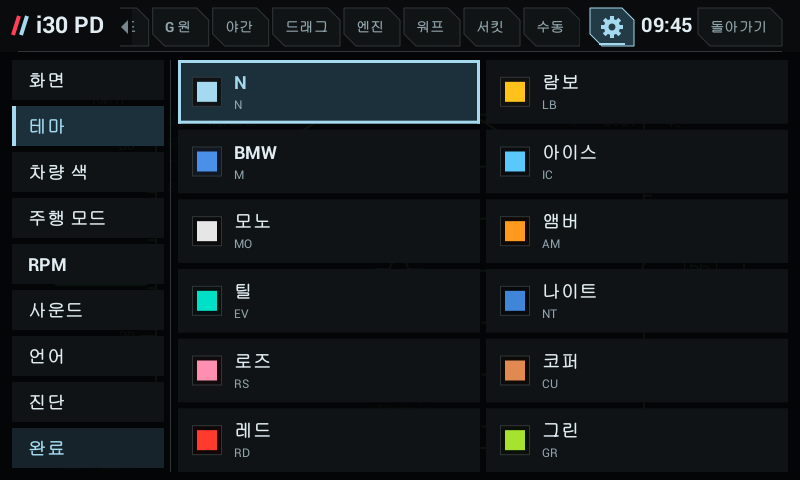
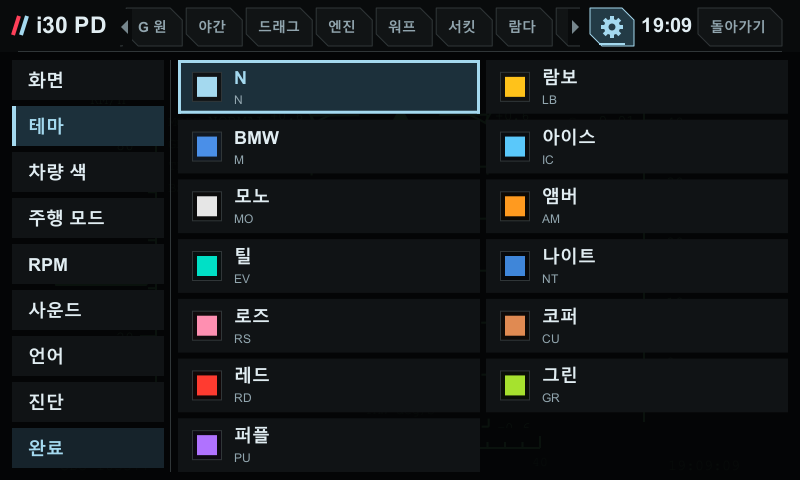
Theme: 퍼플 (PU), a violet accent like the cabin's ambient light, magenta for the red decoration; warnings stay red

diff --git a/shared/src/com/veloster/vehicle/Theme.java b/shared/src/com/veloster/vehicle/Theme.java
@@ -8,7 +8,7 @@ import java.util.Arrays;
  * remap table. Semantic green / amber (ok / caution) are never remapped. No Android imports: host-tested.
  */
 public final class Theme {
-    public static final String[] IDS={"n","lambo","bmw","ice","mono","amber","teal","night","rose","copper","red","green"};
+    public static final String[] IDS={"n","lambo","bmw","ice","mono","amber","teal","night","rose","copper","red","green","purple"};
     public static final int SHAPE_CUT=0,SHAPE_HEX=1,SHAPE_ROUND=2;
 
     // N palette literals grouped by role (RGB only; alpha is kept from the caller).
@@ -63,6 +63,8 @@ public final class Theme {
         // shared ok-green and the ECO accent.
         new Theme("red","RD",SHAPE_CUT,2,false,true,0xffffd21f,0xffffffff,new int[]{0x000000,0x080303,0x110707,0x3e1a1a,0x261111,0xfff1ee,0xaa8b86,0xff3b30,0x3d0d0a,0xff8a1f}),
         new Theme("green","GR",SHAPE_CUT,1,false,false,0xffff3b30,0xff000000,new int[]{0x000000,0x040703,0x0a1007,0x27391a,0x172412,0xf1fbe8,0x8fa384,0xa6e22e,0x22320b,0xd9e84a}),
+        // Purple: a violet accent like the cabin's ambient light, magenta for the red decoration; warnings stay red.
+        new Theme("purple","PU",SHAPE_CUT,1,false,false,0xffff3b30,0xff000000,new int[]{0x000000,0x060409,0x0d0912,0x2e2340,0x1c1528,0xf4eeff,0x968aa8,0xb072ff,0x26143f,0xe04fd8}),
     };
     private static volatile Theme current=ALL[0];
     /** Drive-mode accent (option): ECO green, SPORT red-orange over any theme's accent; 0 = the theme's own. */

diff --git a/tests/ThemeTest.java b/tests/ThemeTest.java
@@ -27,7 +27,7 @@ public final class ThemeTest {
         Theme.select("n");check(Theme.current().shape==Theme.SHAPE_CUT&&!Theme.current().mStripe,"N keeps today's cut corner");
         // Red and green: true black; red warns in yellow with the ring (its accent is red), green's lime stays apart from
         // the shared semantic green and the ECO accent.
-        check(Theme.next("copper").equals("red")&&Theme.next("red").equals("green")&&Theme.next("green").equals("n"),"red and green come after copper");
+        check(Theme.next("copper").equals("red")&&Theme.next("red").equals("green")&&Theme.next("green").equals("purple")&&Theme.next("purple").equals("n"),"red, green and purple come after copper");
         Theme.select("red");Theme red=Theme.current();
         check(red.label.equals("RD")&&red.map(0xff040506)==0xff000000&&red.dangerRing,"red: label, true black, danger ring");
         check(((red.danger>>16)&0xff)>0xe0&&((red.danger>>8)&0xff)>0xb0&&(red.accent&0xffffff)!=(red.danger&0xffffff),"red: warnings are yellow, not the red accent");

diff --git a/shared/src/com/veloster/vehicle/SettingsLayout.java b/shared/src/com/veloster/vehicle/SettingsLayout.java
@@ -51,7 +51,7 @@ public final class SettingsLayout {
     public static final float TITLE_H=30;
     public static final String[] CATS={"화면","테마","차량 색","주행 모드","RPM","사운드","언어","진단","완료"};
     /** Display names for Theme.IDS, in that order. */
-    public static final String[] THEME_NAMES={"N","람보","BMW","아이스","모노","앰버","틸","나이트","로즈","코퍼","레드","그린"};
+    public static final String[] THEME_NAMES={"N","람보","BMW","아이스","모노","앰버","틸","나이트","로즈","코퍼","레드","그린","퍼플"};
     /** Language choices (LanguageSettings ids) and their names. */
     public static final String[] LANGS={"auto","ko","en"},LANG_NAMES={"시스템","한국어","English"};
     public static final float TOP=60,BOTTOM=472,CAT_L=12,CAT_W=152,CAT_H=40,GAP=6,PANE_L=178,PANE_R=788,MAX_ITEM_H=72;

diff --git a/shared/src/com/veloster/i18n/UiText.java b/shared/src/com/veloster/i18n/UiText.java
@@ -716,6 +716,7 @@ public final class UiText {
         EN.put("팬텀 블랙","Phantom Black");
         EN.put("퍼포먼스","Perf");
         EN.put("퍼포먼스 블루","Performance Blue");
+        EN.put("퍼플","Purple");
         EN.put("페달","Pedal");
         EN.put("페달 50% 이하로 충분합니다","Under 50 % pedal is enough");
         EN.put("페어링","Pair");
